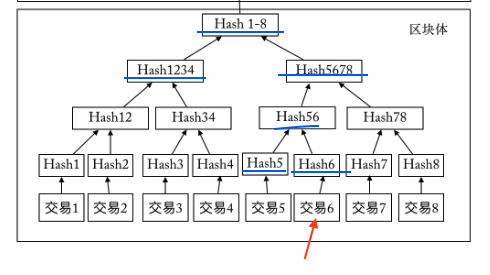
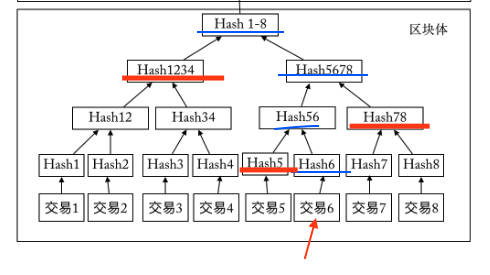
update image

Changed region(s): [[0.2449, 0.2618, 0.4592, 0.32], [0.7041, 0.4364, 0.8878, 0.4945], [0.4898, 0.5818, 0.6122, 0.64]]

diff --git a/eth.md b/eth.md
@@ -57,7 +57,7 @@
 
 * 计算待验证交易的Hash值
 * B从区块链网络获取最长链的所有区块头并保存至本地
-* B从区块链获取待验证交易的Hash认证路径（图中蓝色线标出的Hash）
+* B从区块链获取待验证交易的Hash认证路径（图中红色线标出的Hash）
 * 根据认证路径，计算Merkle树根Hash值，将根Hash与之前获取的所有区块头中的Merkle根Hash进行比较，定位到包含此交易的区块
 * 根据该区块所处位置，确定该交易已经得到了足够次数的确认（比特币6次，以太坊15~30次）
 

diff --git a/mpt.md b/mpt.md
@@ -24,7 +24,7 @@
 
 * 计算待验证交易的Hash值
 * B从区块链网络获取最长链的所有区块头并保存至本地
-* B从区块链获取待验证交易的Hash认证路径（图中蓝色线标出的Hash）
+* B从区块链获取待验证交易的Hash认证路径（图中红色线标出的Hash）
 * 根据认证路径，计算Merkle树根Hash值，将根Hash与之前获取的所有区块头中的Merkle根Hash进行比较，定位到包含此交易的区块
 * 根据该区块所处位置，确定该交易已经得到了足够次数的确认（比特币6次，以太坊15~30次）
 
